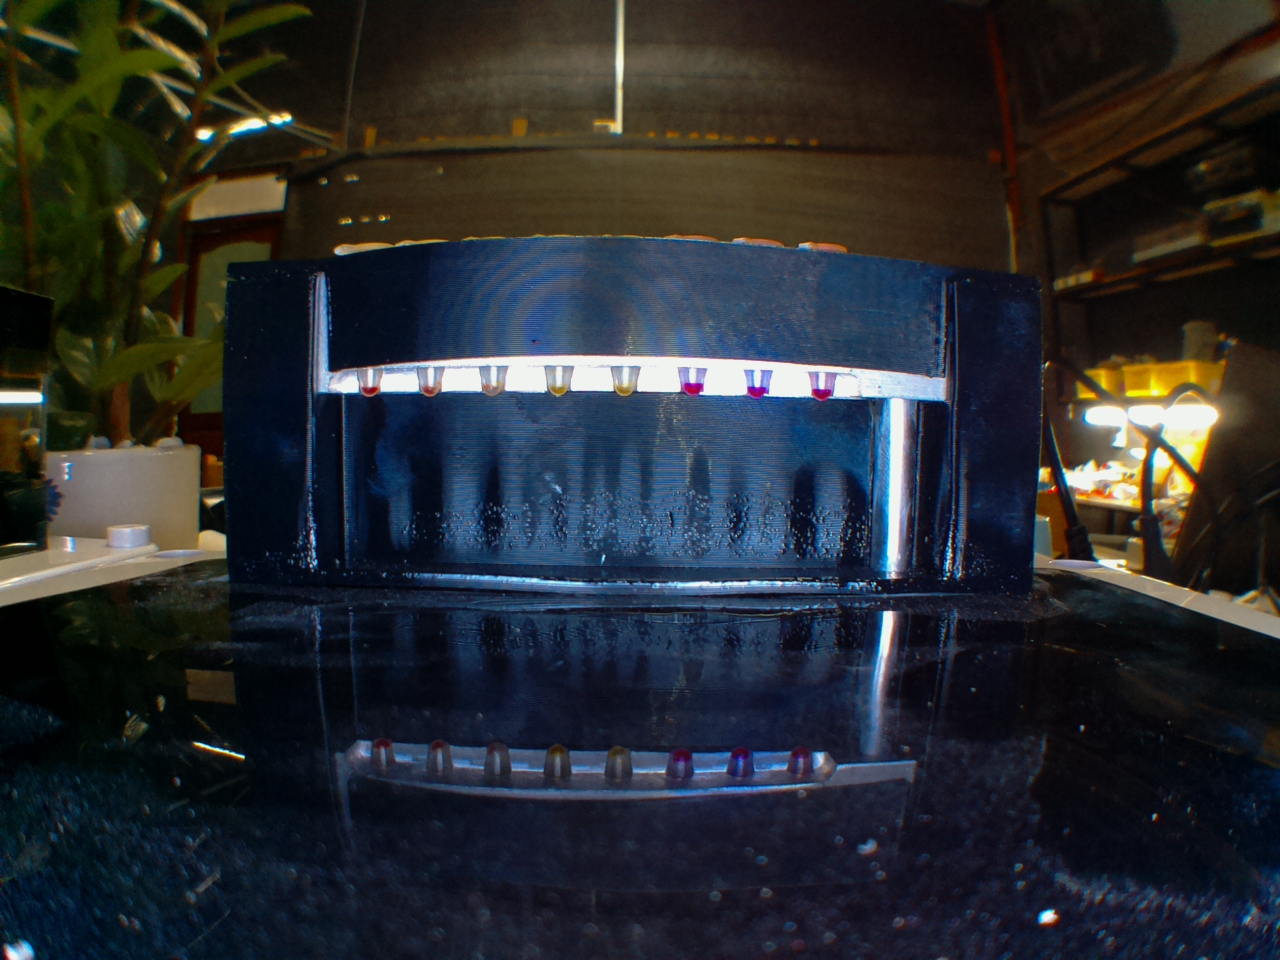
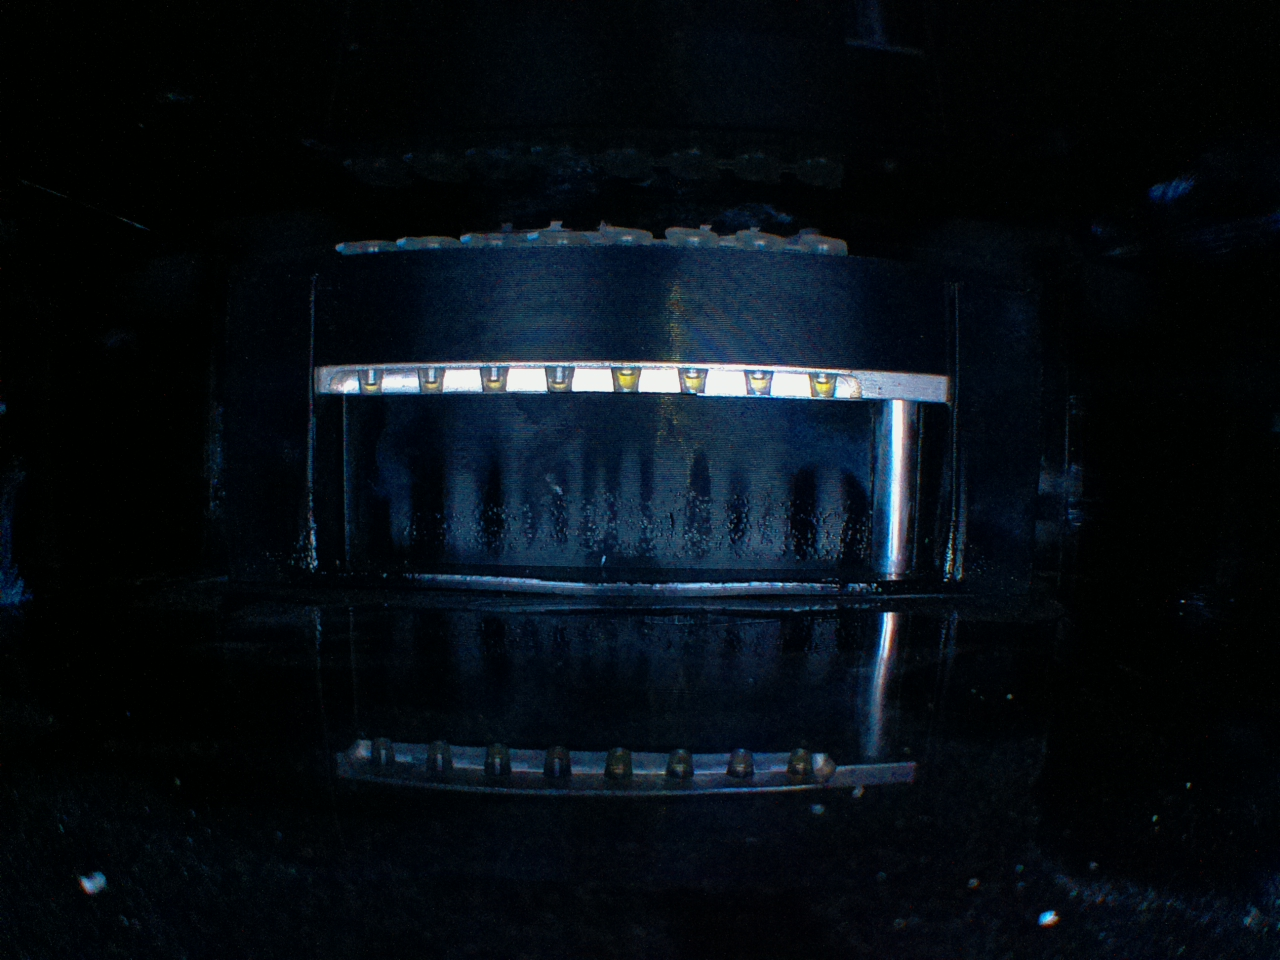
chỉnh raspistill, thêm ss 12000 và awb auto

diff --git a/testtubenew-v4.py b/testtubenew-v4.py
@@ -214,9 +214,11 @@ def capture_image_from_camera(output_path='captured_image.jpg'):
             '-ex', 'night',
             '-w', '1280',
             '-h', '960',
-            '-q', '85',
-            '-t', '2000',
-            '-hf','-vf'  # 2 seconds delay before capture
+            '-q', '100',
+            '-t', '1000',
+            '-hf','-vf',
+            '-ss','12000',
+              '-awb','-auto'  # 2 seconds delay before capture
         ]
 
         # Use subprocess.Popen for better control
